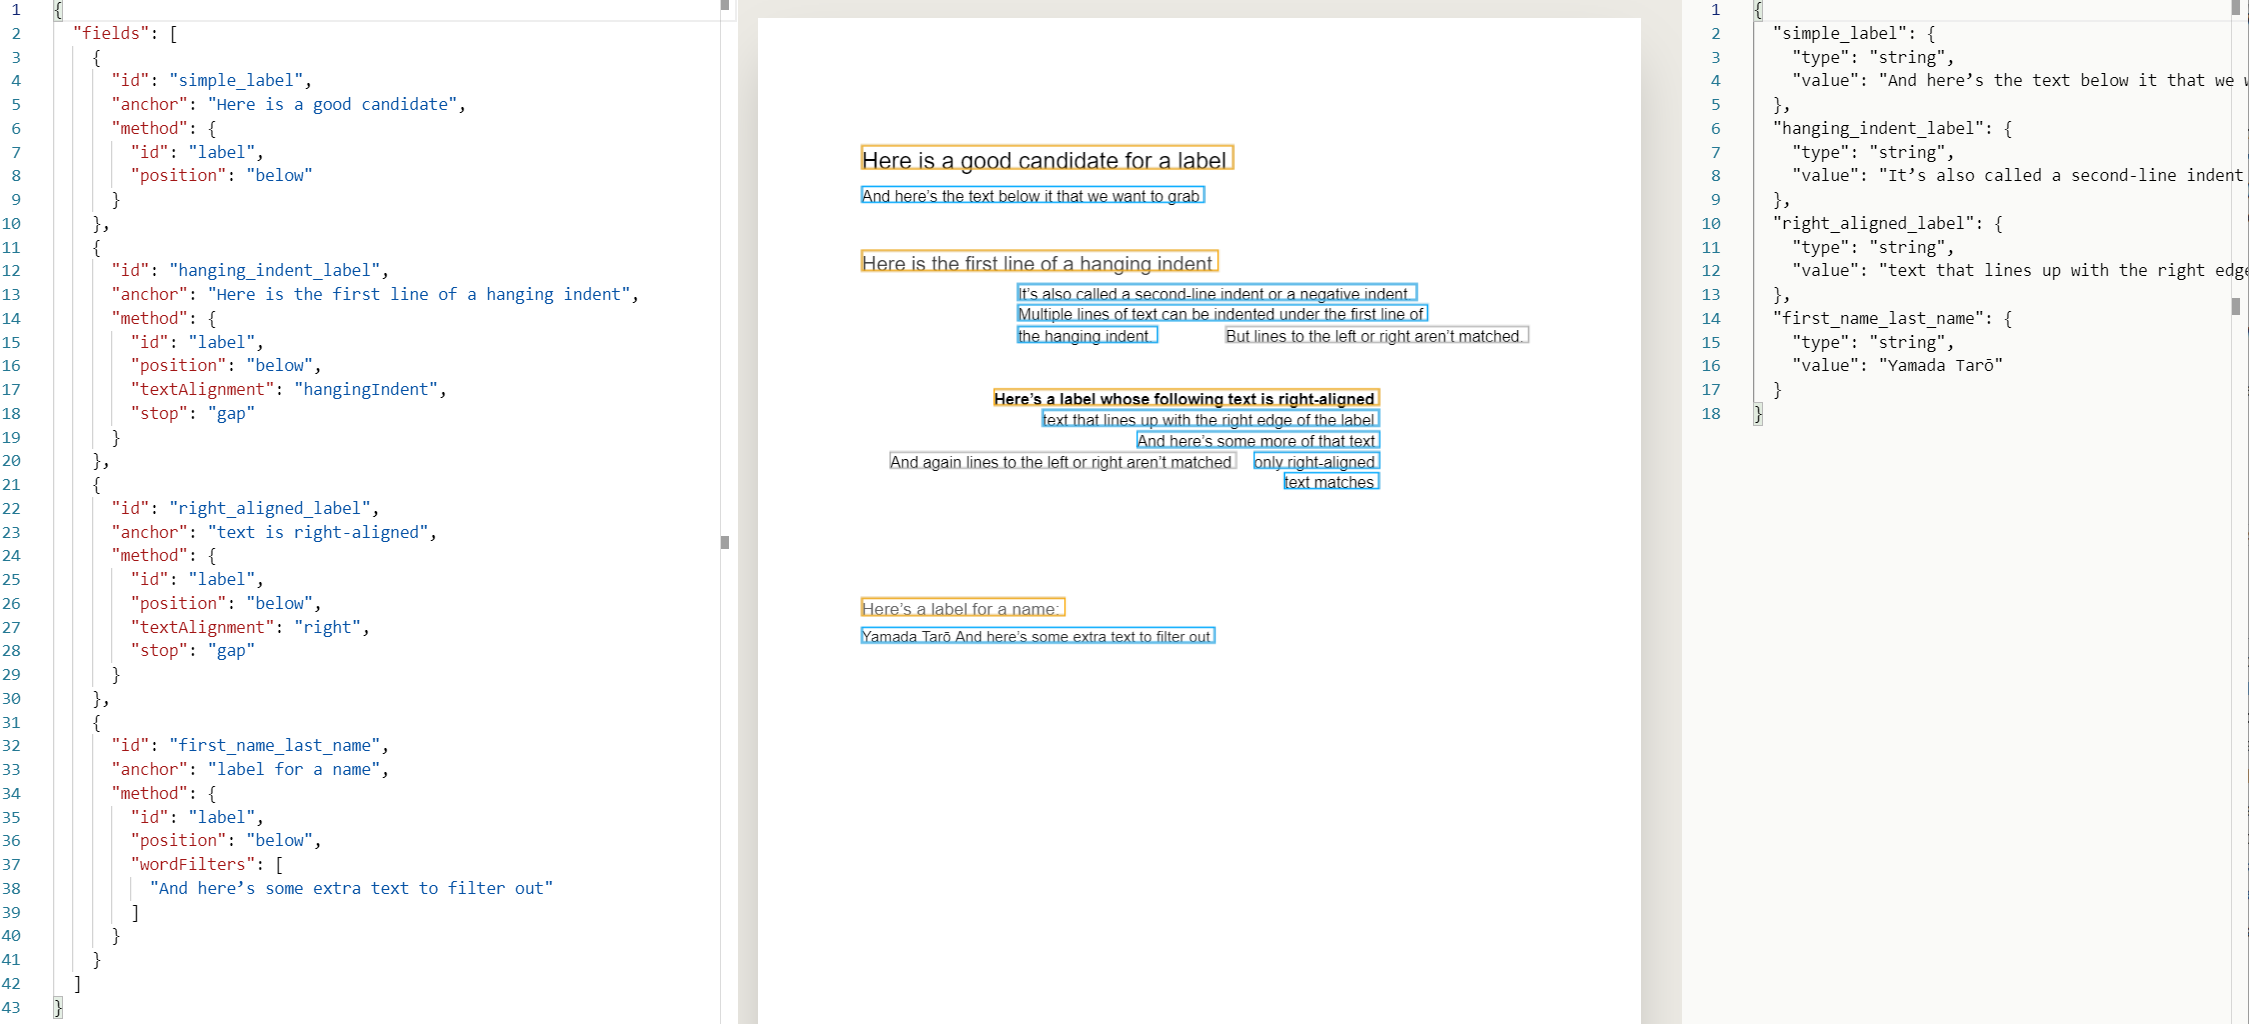
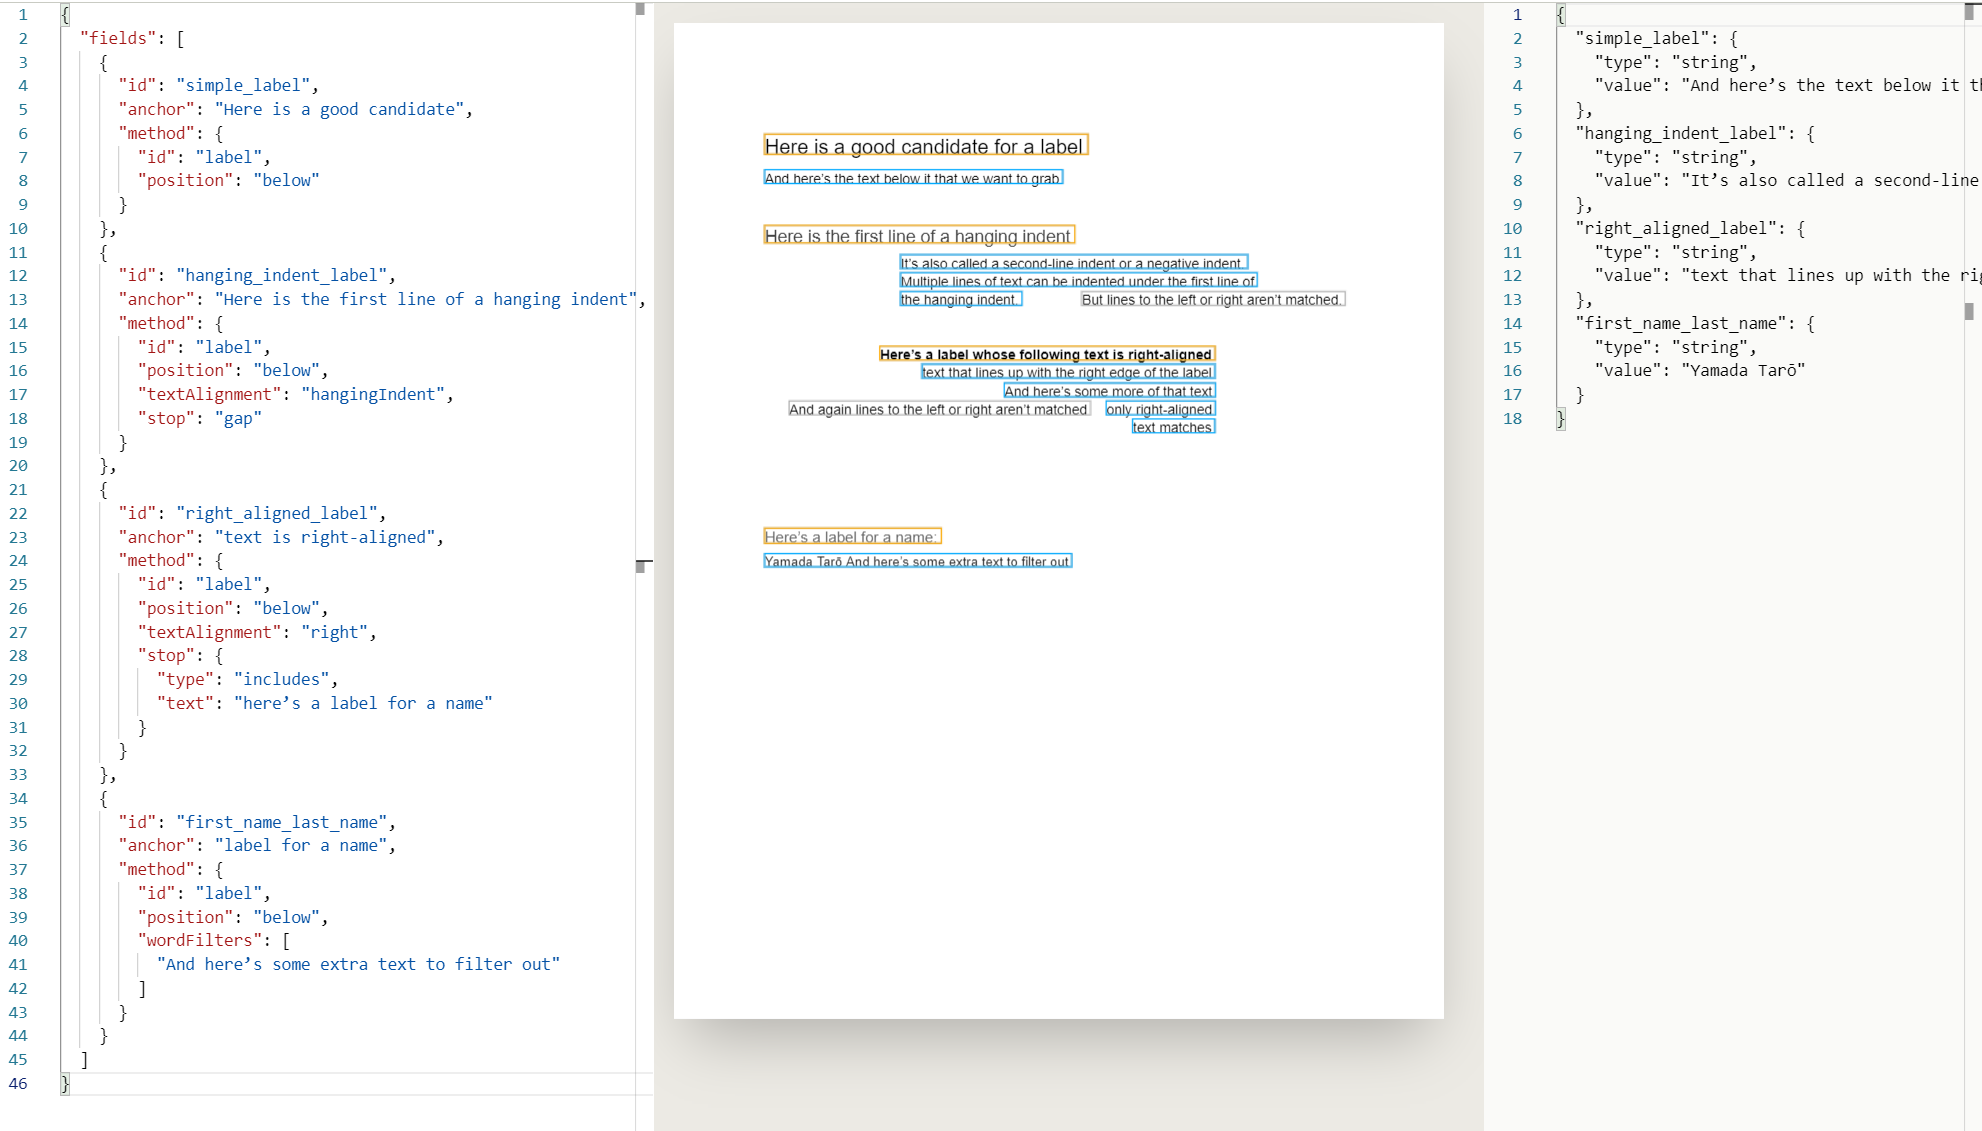
added Match stop

diff --git a/readme-sync/v0/senseml-reference/methods/label.md b/readme-sync/v0/senseml-reference/methods/label.md
@@ -50,7 +50,10 @@ The preceding example shows fields that do the following:
         "id": "label",
         "position": "below",
         "textAlignment": "right",
-        "stop": "gap"
+        "stop": {
+          "type": "includes",
+          "text": "here’s a label for a name"
+        }
       }
     },
     {
